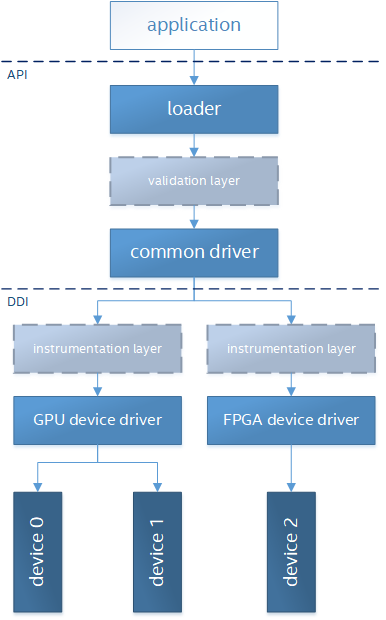
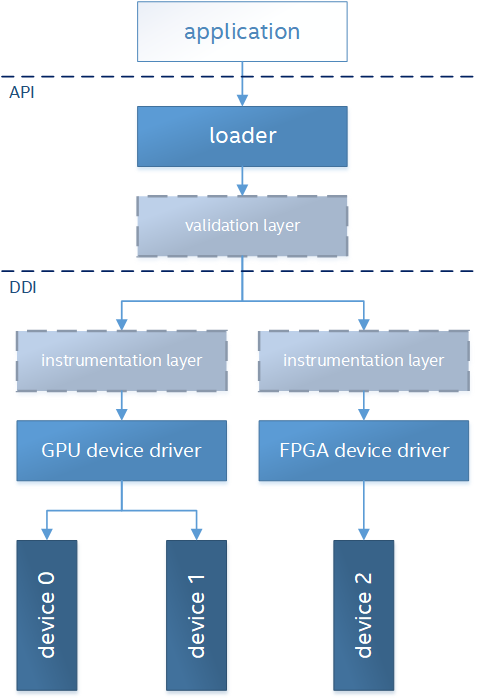
Update INTRO.md

diff --git a/scripts/core/INTRO.md b/scripts/core/INTRO.md
@@ -188,8 +188,11 @@ The export function and table definitions are defined in "${x}_ddi.h".
 ## --validate=off
 The loader is dynamically linked with the application using the "${x}_loader.dll" (windows) or "${x}_loader.so" (linux).
 ## --validate=on
-The loader is vendor agnostic, but must be aware of the names of vendor-specific common driver names. 
+The loader is vendor agnostic, but must be aware of the names of vendor-specific device driver names. 
 (Note: these are currently hard-coded but a registration method will be adopted when multiple vendors are supported.)
+
+The loader dynamically loads each vendor's device driver(s) present in the system and queries each per-process function pointer table(s).
+If only one device driver needs to be loaded, then the loader layer may be entirely bypassed.
 
 The following diagram illustrates the expected loading sequence:  
 ![Loader](../images/intro_loader.png?raw=true)  
@@ -197,21 +200,9 @@ The following diagram illustrates the expected loading sequence:
 
 Thus, the loader's internal function pointer table entries may point to:
     + validation layer intercepts (if enabled),
-    + common driver intercepts (e.g., if more than one supported device type are present in the system),
     + instrumentation layer intercepts (if enabled),
     + device driver exports,
     + or any combination of the above
-
-${"##"} Common Driver
-The common driver determines which other vendor's device driver(s) need to be loaded, based on which device types are present in the system and recognized by the common driver.
-The common driver contain vendor-specific implementations of a subset of APIs (such as memory allocation) and use private DDIs for notifying device drivers of these events.
-The common driver may be bypassed entirely if there is only one device driver needed.
-
-## --validate=off
-The common driver is dynamically linked using a _${x}_vendor_com.dll_ (windows) / _${x}_vendor_com.so_ (linux);
-where _vendor_ is a name chosen by the device vendor.
-For example, Intel GPUs use the name: "${x}_intc_com".
-## --validate=on
 
 ${"##"} Device Drivers
 The device driver(s) contain the device-specific implementations of the APIs.

diff --git a/include/core/INTRO.md b/include/core/INTRO.md
@@ -176,8 +176,11 @@ Each driver and layer must below the loader will also export its API/DDI functio
 The export function and table definitions are defined in "xe_ddi.h".
 
 The loader is dynamically linked with the application using the "xe_loader.dll" (windows) or "xe_loader.so" (linux).
-The loader is vendor agnostic, but must be aware of the names of vendor-specific common driver names. 
+The loader is vendor agnostic, but must be aware of the names of vendor-specific device driver names. 
 (Note: these are currently hard-coded but a registration method will be adopted when multiple vendors are supported.)
+
+The loader dynamically loads each vendor's device driver(s) present in the system and queries each per-process function pointer table(s).
+If only one device driver needs to be loaded, then the loader layer may be entirely bypassed.
 
 The following diagram illustrates the expected loading sequence:  
 ![Loader](../images/intro_loader.png?raw=true)  
@@ -185,19 +188,9 @@ The following diagram illustrates the expected loading sequence:
 
 Thus, the loader's internal function pointer table entries may point to:
     + validation layer intercepts (if enabled),
-    + common driver intercepts (e.g., if more than one supported device type are present in the system),
     + instrumentation layer intercepts (if enabled),
     + device driver exports,
     + or any combination of the above
-
-## Common Driver
-The common driver determines which other vendor's device driver(s) need to be loaded, based on which device types are present in the system and recognized by the common driver.
-The common driver contain vendor-specific implementations of a subset of APIs (such as memory allocation) and use private DDIs for notifying device drivers of these events.
-The common driver may be bypassed entirely if there is only one device driver needed.
-
-The common driver is dynamically linked using a _xe_vendor_com.dll_ (windows) / _xe_vendor_com.so_ (linux);
-where _vendor_ is a name chosen by the device vendor.
-For example, Intel GPUs use the name: "xe_intc_com".
 
 ## Device Drivers
 The device driver(s) contain the device-specific implementations of the APIs.
